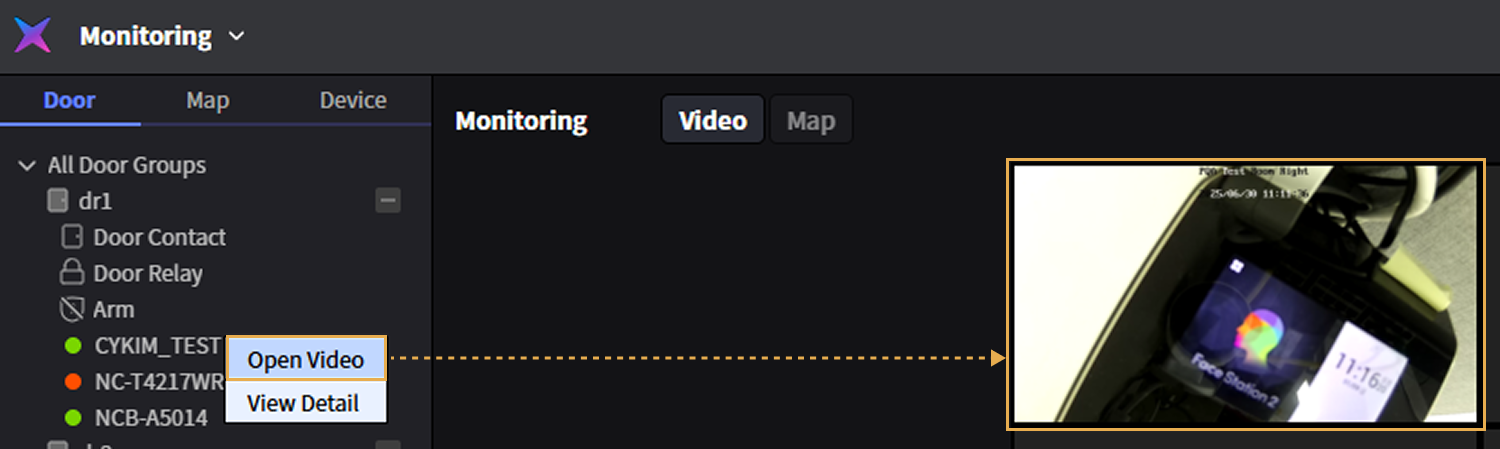
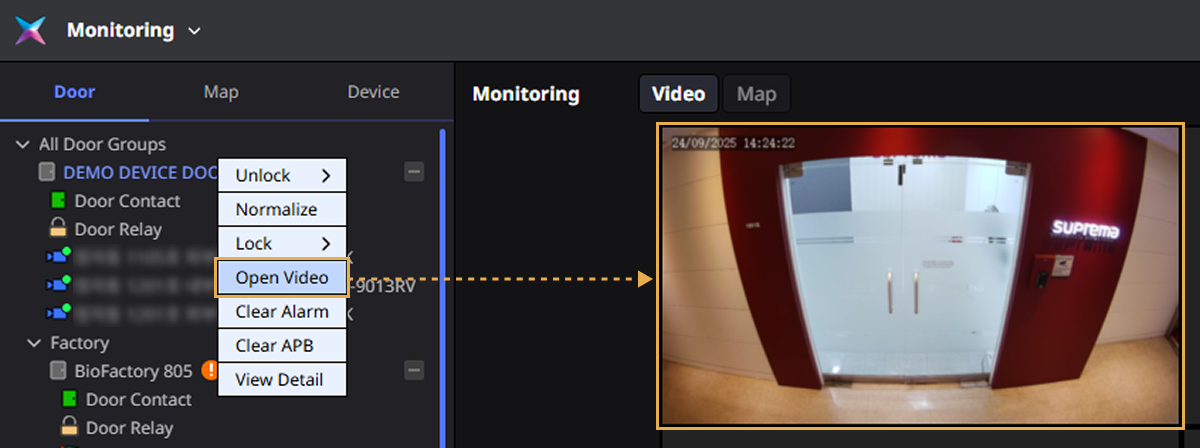
AB#14 모니터링 - 출입문 점검, 제어 문서 업데이트

diff --git a/src/components/Treeview/index.js b/src/components/Treeview/index.js
@@ -6,6 +6,13 @@ import IcAcLevel from '@site/static/img/menus/ico-aclevel.svg';
 import IcFloorLevel from '@site/static/img/menus/ico-floorlv.svg';
 import IcFloorElev from '@site/static/img/menus/ico-flelev.svg';
 import IcFlElevFl from '@site/static/img/menus/ico-flelevfl.svg';
+import IcDoorClose from '@site/static/img/menus/ico-door-close.svg';
+import IcDoorSensor from '@site/static/img/menus/ico-door-sensor.svg';
+import IcRelayLock from '@site/static/img/menus/ico-relay-lock.svg';
+import IcArm from '@site/static/img/menus/ico-arms.svg';
+import IcElev from '@site/static/img/menus/ico-elevator.svg';
+import IcZone from '@site/static/img/menus/ico-zone.svg';
+import IcCamOk from '@site/static/img/menus/ico-camera-ok.svg';
 
 const dataKo = [
     {
@@ -118,13 +125,21 @@ function TreeNode({ node, level = 0 }) {
                         <IcDown />
                     </span>
                 )}
-                {level > 1 && (
+                {(level > 1 || node.type === 'access-zone') && (
                     <span className={styles.treeIcon}>
                         {node.type === 'access-level' && <IcAcLevel height='25' width='auto' /> }
                         {node.type === 'door' && <IcAcDoor height='25' width='auto' /> }
+                        {node.type === 'door-device' && <IcDoorClose height='21' width='auto' /> }
+                        {node.type === 'door-sensor' && <IcDoorSensor height='25' width='auto' /> }
+                        {node.type === 'door-relay' && <IcRelayLock height='25' width='auto' /> }
+                        {node.type === 'door-arm' && <IcArm height='25' width='auto' /> }
+                        {node.type === 'door-camera' && <IcCamOk height='25' width='auto' /> }
                         {node.type === 'floor-level' && <IcFloorLevel height='25' width='auto' /> }
+                        {node.type === 'access-zone' && <IcZone height='25' width='auto' /> }
                         {node.type === 'elevator' && <IcFloorElev height='25' width='auto' /> }
+                        {node.type === 'elevator-device' && <IcElev height='25' width='auto' /> }
                         {node.type === 'elevator-schedule' && <IcFlElevFl height='25' width='auto' /> }
+                        {node.type === 'elevator-floor' && <div style={{ backgroundColor: '#aaa', width: '10px', height: '10px', borderRadius: '50%', top: '8px', position: 'relative' }} /> }
                     </span>
                 )}
                 

diff --git a/src/theme/MDXComponents.js b/src/theme/MDXComponents.js
@@ -19,7 +19,7 @@ import { Start } from '@site/src/components/Winkey';
 import { NextStep, NextItem } from '@site/src/components/NextStep';
 import { Glossary, GlossaryAll } from '@site/src/components/Glossary';
 import Num from '@site/src/components/Num';
-import { StatusOK, StatusFail, StatusUpdating } from '@site/src/components/Status';
+import { StatusOK, StatusFail, StatusUpdating, StatusNormal } from '@site/src/components/Status';
 import Overview from '@site/src/components/Overview';
 import Separator from '@site/src/components/Separator';
 import Badge from '@site/src/components/Badge';
@@ -51,10 +51,12 @@ import IcErr from '@site/static/img/menus/ico-err.svg';
 import IcNotsync from '@site/static/img/menus/ico-notsync.svg';
 import IcDoorClose from '@site/static/img/menus/ico-door-close.svg';
 import IcDoorOpen from '@site/static/img/menus/ico-door-open.svg';
+import IcDoorSensor from '@site/static/img/menus/ico-door-sensor.svg';
 import IcRelayLock from '@site/static/img/menus/ico-relay-lock.svg';
 import IcRelayUnlock from '@site/static/img/menus/ico-relay-unlock.svg';
 import IcArm from '@site/static/img/menus/ico-arms.svg';
 import IcDisarm from '@site/static/img/menus/ico-disarms.svg';
+import IcZone from '@site/static/img/menus/ico-zone.svg';
 import IcDisable from '@site/static/img/menus/ico-disable.svg';
 import IcFullscreen from '@site/static/img/menus/ico-fullscreen.svg';
 import IcRestorscreen from '@site/static/img/menus/ico-restorescreen.svg';
@@ -136,7 +138,7 @@ export default {
     GlossaryAll,
     Num,
     StatusOK,
-    StatusFail, StatusUpdating,
+    StatusFail, StatusUpdating, StatusNormal,
     Overview,
     Separator,
     Badge,
@@ -160,11 +162,11 @@ export default {
     IcErr,
     IcNotsync,
     IcDoorClose,
-    IcDoorOpen,
+    IcDoorOpen, IcDoorSensor,
     IcRelayLock,
     IcRelayUnlock,
     IcArm,
-    IcDisarm,
+    IcDisarm, IcZone,
     IcDisable,
     IcFullscreen,
     IcRestorscreen,

diff --git a/src/components/Status/index.js b/src/components/Status/index.js
@@ -13,6 +13,12 @@ export function StatusFail() {
     )
 }
 
+export function StatusNormal() {
+    return (
+        <div className={clsx(styles.status, styles.normal)}></div>
+    )
+}
+
 export function StatusUpdating() {
     return (
         <div className={clsx(styles.status, styles.updating)}></div>

diff --git a/src/components/Status/styles.module.css b/src/components/Status/styles.module.css
@@ -10,6 +10,10 @@
   background-color: orange;
 }
 
+.normal {
+  background-color: #aaa;
+}
+
 .status {
   border-radius: 9999px;
   width: .75rem;
